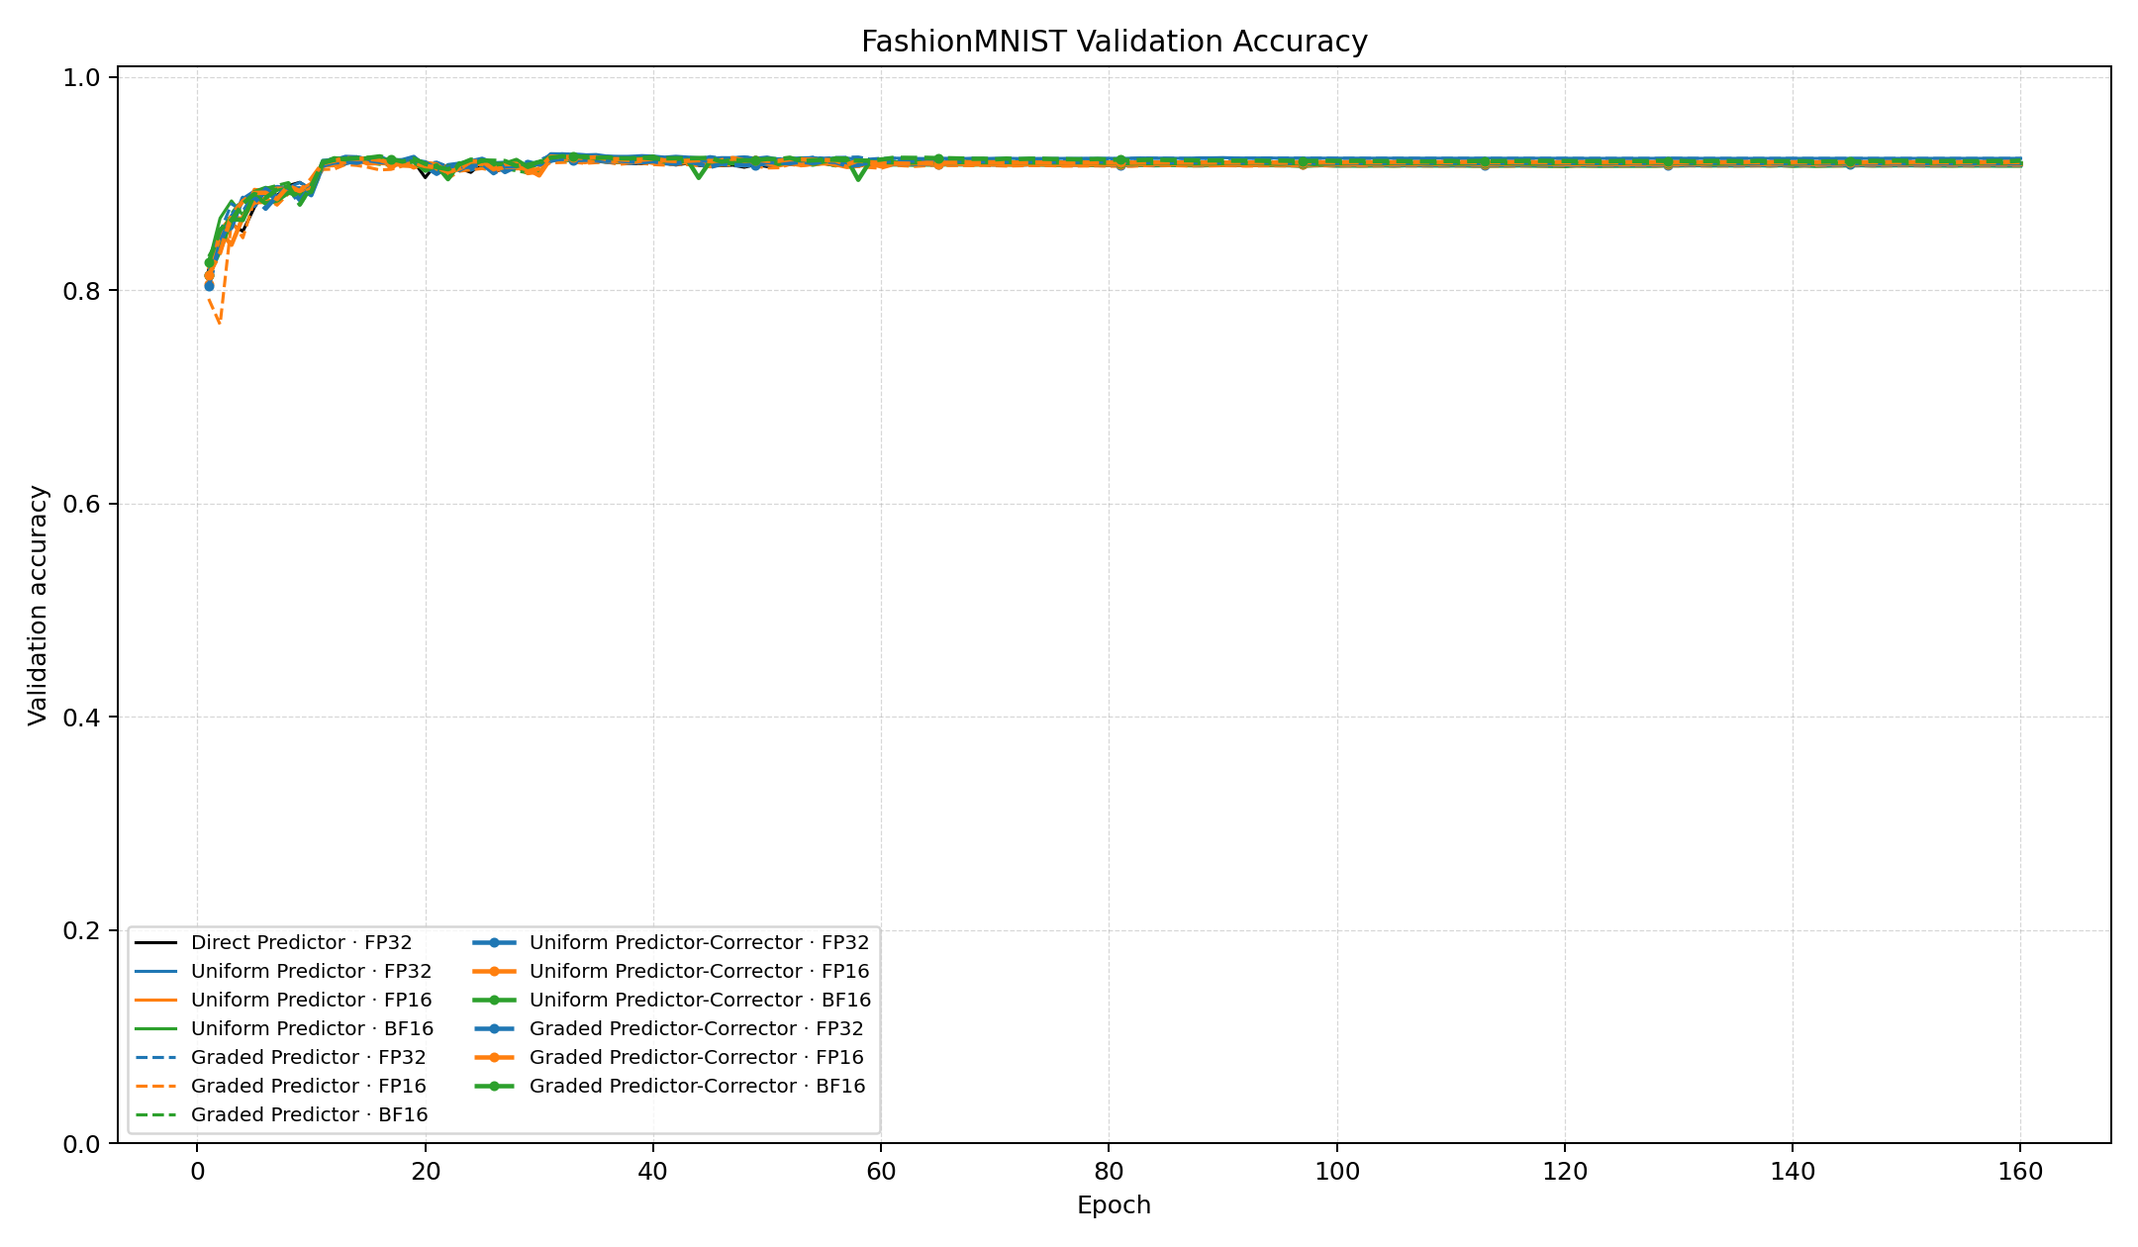
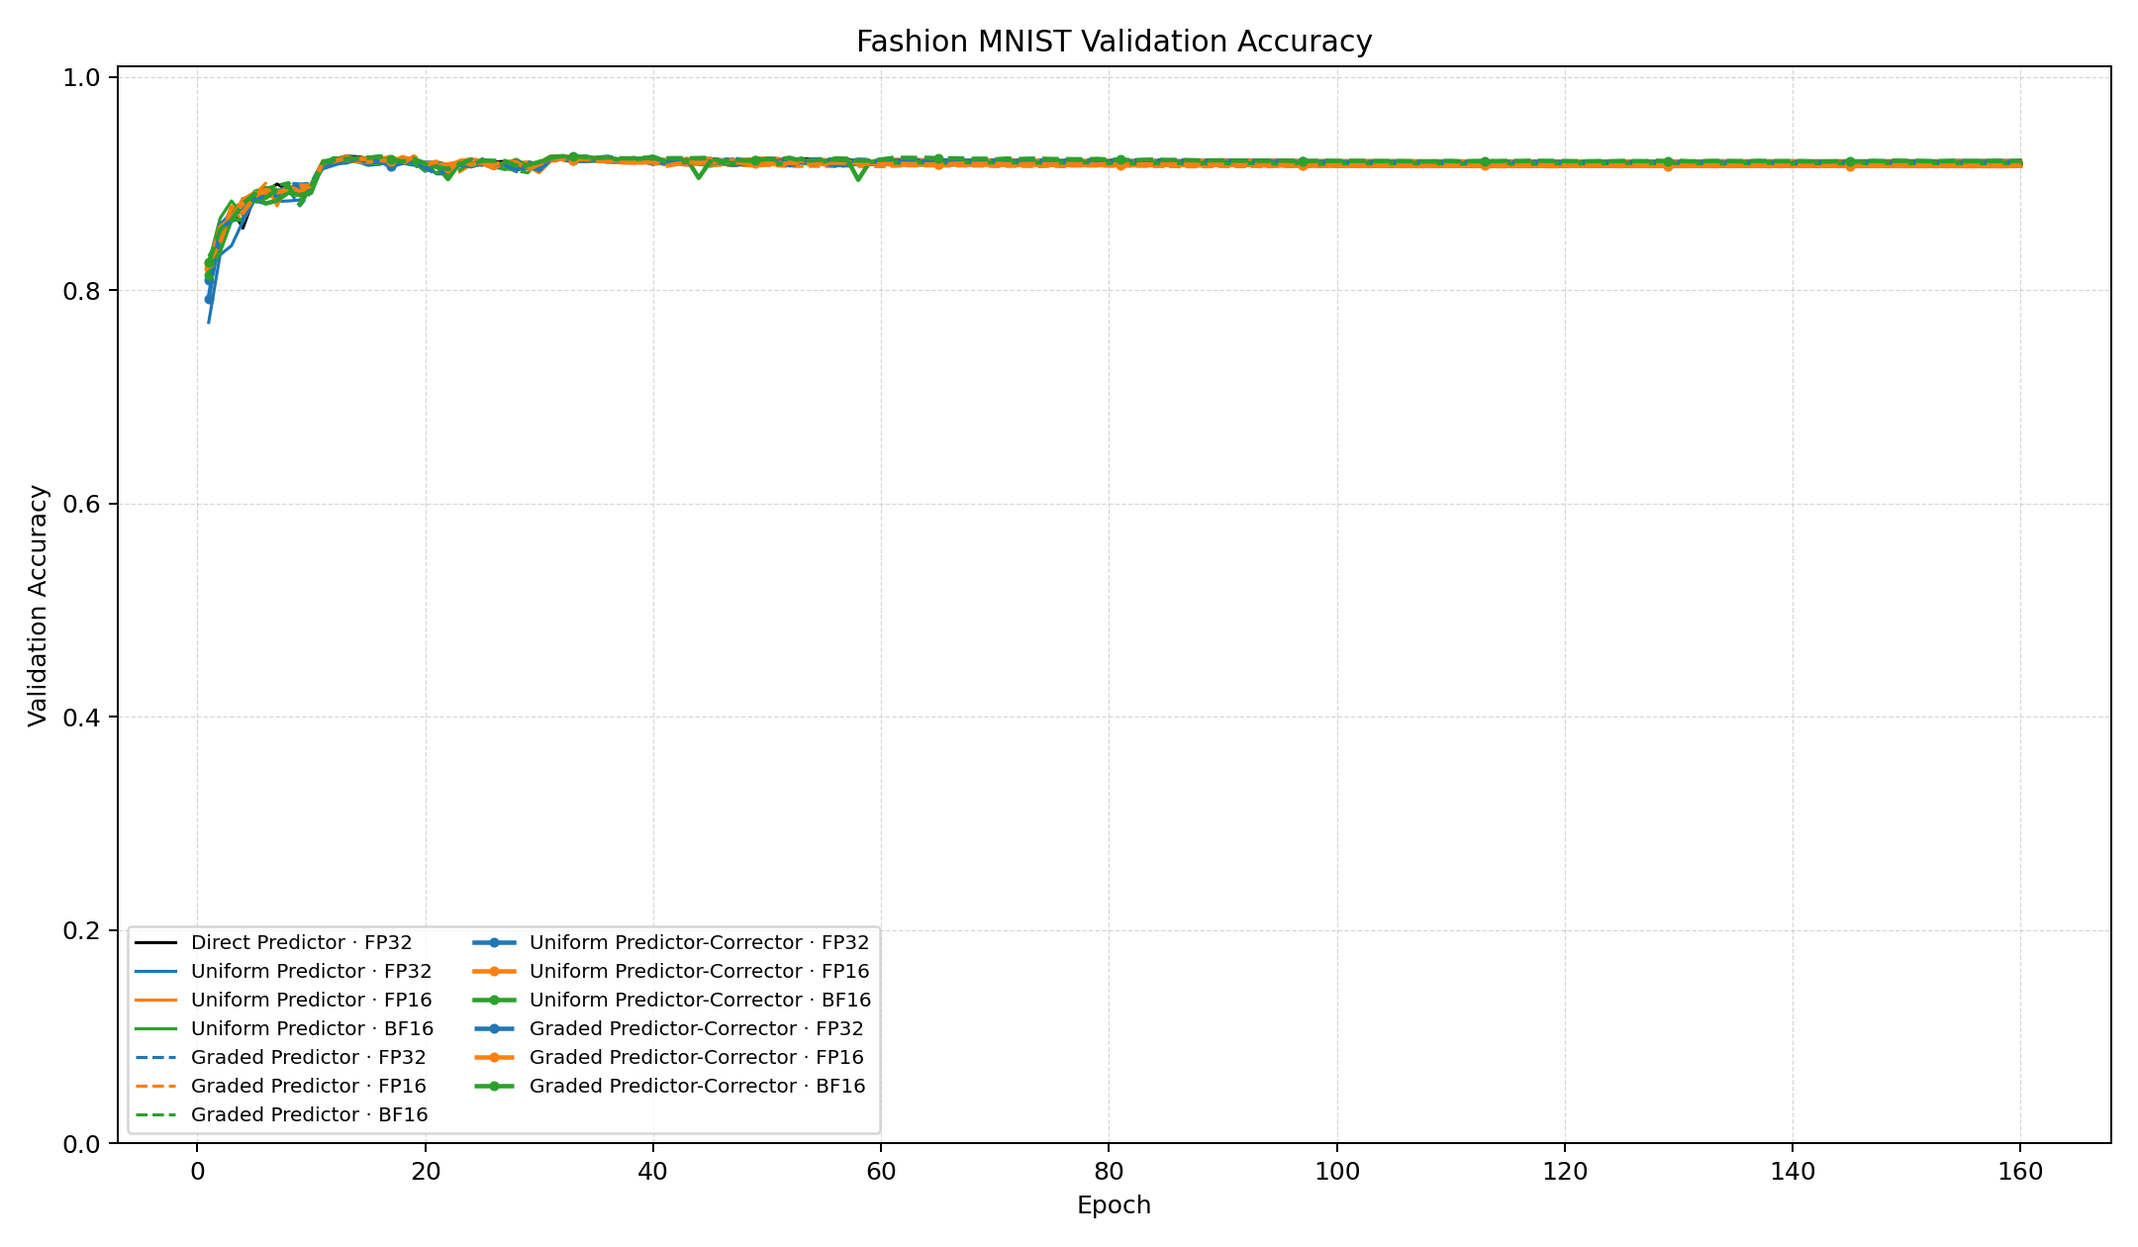
Added summary markdowns for FashionMNIST and STL10 examples.

Changed region(s): [[0.0931, 0.1238, 0.9616, 0.2476], [0.4032, 0.0, 0.6514, 0.0619], [0.0, 0.4952, 0.031, 0.5571]]

diff --git a/examples/FashionMNIST/Evaluate Full Training Logs/fashion_mnist_final_metrics.md b/examples/FashionMNIST/Evaluate Full Training Logs/fashion_mnist_final_metrics.md
@@ -1,66 +1,65 @@
 # Fashion MNIST Final Metrics Summary
 
-## Full Training Metrics 
+## Full Training Metrics
 
 ```text
-configuration                      | backward mode        | mesh    | precision | final_acc | best_acc | train_mem_mb | train_time_s | inf_time_s | inf_mem_mb
------------------------------------+----------------------+---------+-----------+-----------+----------+--------------+--------------+------------+-----------
-Direct Predictor · FP32            | direct AG            | uniform | float32   | 0.9171    | 0.9245   | 221.06       | 1253.06      | 0.66       | 120.24      
-Uniform Predictor · FP32           | adjoint              | uniform | float32   | 0.9238    | 0.9282   | 166.48       | 1621.35      | 0.69       | 120.24      
-Uniform Predictor · FP16           | adjoint-mixed        | uniform | float16   | 0.9190    | 0.9247   | 161.65       | 2861.05      | 0.69       | 120.48      
-Uniform Predictor · BF16           | adjoint-mixed-bfloat | uniform | bfloat16  | 0.9164    | 0.9234   | 159.95       | 2552.80      | 0.94       | 120.48      
-Graded Predictor · FP32            | adjoint              | graded  | float32   | 0.9237    | 0.9282   | 166.48       | 1997.99      | 0.73       | 120.24      
-Graded Predictor · FP16            | adjoint-mixed        | graded  | float16   | 0.9168    | 0.9203   | 161.65       | 3644.80      | 0.79       | 120.48      
-Graded Predictor · BF16            | adjoint-mixed-bfloat | graded  | bfloat16  | 0.9202    | 0.9229   | 159.95       | 1445.72      | 0.63       | 120.48      
-Uniform Predictor-Corrector · FP32 | adjoint              | uniform | float32   | 0.9180    | 0.9251   | 180.27       | 3102.22      | 1.04       | 120.24      
-Uniform Predictor-Corrector · FP16 | adjoint-mixed        | uniform | float16   | 0.9186    | 0.9237   | 168.40       | 5778.13      | 1.07       | 120.48      
-Uniform Predictor-Corrector · BF16 | adjoint-mixed-bfloat | uniform | bfloat16  | 0.9193    | 0.9256   | 167.56       | 3492.20      | 1.11       | 120.48      
-Graded Predictor-Corrector · FP32  | adjoint              | graded  | float32   | 0.9196    | 0.9233   | 180.27       | 3046.23      | 1.03       | 120.24      
-Graded Predictor-Corrector · FP16  | adjoint-mixed        | graded  | float16   | 0.9203    | 0.9256   | 168.40       | 5437.04      | 1.12       | 120.48      
-Graded Predictor-Corrector · BF16  | adjoint-mixed-bfloat | graded  | bfloat16  | 0.9217    | 0.9261   | 167.56       | 3638.01      | 1.08       | 120.48      
+configuration                      | backward mode        | mesh    | precision | status | final_acc | best_acc | train_mem_mb | train_time_s | inf_time_s | inf_mem_mb
+-----------------------------------+----------------------+---------+-----------+--------+-----------+----------+--------------+--------------+------------+-----------
+Direct Predictor · FP32            | direct AG            | uniform | float32   | ok     | 0.9218    | 0.9259   | 221.06       | 1063.47      | 0.52       | 120.24    
+Uniform Predictor · FP32           | adjoint              | uniform | float32   | ok     | 0.9176    | 0.9226   | 166.48       | 1300.98      | 0.59       | 120.24    
+Uniform Predictor · FP16           | adjoint-mixed        | uniform | float16   | ok     | 0.9211    | 0.9262   | 162.22       | 3564.86      | 0.78       | 120.48    
+Uniform Predictor · BF16           | adjoint-mixed-bfloat | uniform | bfloat16  | ok     | 0.9164    | 0.9234   | 159.95       | 2569.69      | 0.80       | 120.48    
+Graded Predictor · FP32            | adjoint              | graded  | float32   | ok     | 0.9209    | 0.9254   | 166.48       | 1976.20      | 0.74       | 120.24    
+Graded Predictor · FP16            | adjoint-mixed        | graded  | float16   | ok     | 0.9160    | 0.9260   | 162.22       | 3674.37      | 0.88       | 120.48    
+Graded Predictor · BF16            | adjoint-mixed-bfloat | graded  | bfloat16  | ok     | 0.9202    | 0.9229   | 159.95       | 1623.00      | 0.75       | 120.48    
+Uniform Predictor-Corrector · FP32 | adjoint              | uniform | float32   | ok     | 0.9184    | 0.9237   | 180.27       | 2489.25      | 0.81       | 120.24    
+Uniform Predictor-Corrector · FP16 | adjoint-mixed        | uniform | float16   | ok     | 0.9167    | 0.9249   | 168.97       | 4176.99      | 0.89       | 120.48    
+Uniform Predictor-Corrector · BF16 | adjoint-mixed-bfloat | uniform | bfloat16  | ok     | 0.9193    | 0.9256   | 167.56       | 4762.59      | 1.42       | 120.48    
+Graded Predictor-Corrector · FP32  | adjoint              | graded  | float32   | ok     | 0.9199    | 0.9253   | 180.27       | 3819.45      | 1.21       | 120.24    
+Graded Predictor-Corrector · FP16  | adjoint-mixed        | graded  | float16   | ok     | 0.9178    | 0.9256   | 168.97       | 7305.76      | 1.50       | 120.48    
+Graded Predictor-Corrector · BF16  | adjoint-mixed-bfloat | graded  | bfloat16  | ok     | 0.9217    | 0.9261   | 167.56       | 3048.05      | 0.96       | 120.48    
 ```
 
-Predictor: 
-- Adjoint MP memory savings compared to direct AG: $27.6\\%$
-    - Note: this scales up to $\\%$ as $T$ increases, see below. 
+Predictor:
+- Adjoint MP memory savings compared to direct AG: $27.6\\%$.
+    - Note: this scales with $T/h$, see below for memory savings of up to $86.6\\%$.
 - Adjoint MP memory savings compared to full precision adjoint: $3.9\\%$
-    - Note: this scales up to $\\%$ as $T$ increases, see below. 
+    - Note: this scales with $T/h$, see below for memory savings of up to $47.5\\%$.
 
-Predictor-Corrector: 
+Predictor-Corrector:
 - Adjoint MP memory savings compared to full precision adjoint: $7.1\\%$
-    - Note: this scales up to $\\%$ as $T$ increases, see below
 
 Experiment Parameters:
 - Network Architecture:
-    - Same as torchfde/Neural FDE paper (same as MNIST example)
-
+    - Same as the torchfde Neural FDE paper (and the MNIST example)
+    - Model parameter count: 208266
 - FDE_Block:
     - Beta: 0.3
     - T: 1.0
     - step_size: 0.1
-    - $f$ in $D^\beta z = f$: Convolution Module
-
+    - $f$ in $D^\beta z = f$: Convolution module
 - Training Arguments:
-    - Epochs: 160 
-    - Batch Size: 128
-    - Initial LR: 0.1, decay at specified boundary epochs 
+    - Epochs: 160
+    - Batch size: 128
+    - Initial LR: 0.1, decayed at the specified boundary epochs
     - Momentum: 0.9
     - Weight decay: 5e-4
     - GPU: NVIDIA H200 (Palmetto)
 
-Parameter count: 208,266
+Parameter count: 208266
 
-Note: 
-- adjoint mode uses adjoint method for gradients but in high precision
-- adjoint-mixed mode uses adjoint method with float16 for mixed precision (and hence the DynamicScaler)
-- adjoint-mixed-bfloat uses adjoint method with bfloat16 for mixed precision (and hence no DynamicScaler)
-- direct mode uses standard backprop with high precision
-    
-Training Plot (every epoch):
-![Training plots for Fashion MNIST full experiment](./fashion_mnist_train_accuracy.png "Fashion MNIST full training curves")
+Note:
+- adjoint mode uses the custom adjoint in float32 throughout
+- adjoint-mixed mode uses float16 adjoint storage and the DynamicScaler
+- adjoint-mixed-bfloat uses bfloat16 adjoint storage without dynamic scaling
+- direct mode uses standard backpropagation in float32
+- graded and uniform specify the shared forward/backward time mesh
 
-Test Accuracy Plot (every epoch):
-![Test accuracy plots for Fashion MNIST full experiment](./fashion_mnist_validation_accuracy.png "Fashion MNIST full test curves")
+Training Plot (every logged epoch):
+![Training plot for Fashion MNIST](./fashion_mnist_train_accuracy.png "Fashion MNIST training curves")
+
+Validation Accuracy Plot (every logged epoch):
+![Validation plot for Fashion MNIST](./fashion_mnist_validation_accuracy.png "Fashion MNIST validation curves")
 
 
 ## Fashion MNIST Final Time, T, Sweep Comparisions
@@ -72,38 +71,46 @@ T \in \{1, 2, 4, 8, 16, 32, 64, 128\}
 and report peak GPU memory for each epoch and time per epoch for training. 
 
 # Memory Results (Peak Memory, MB)
+
+- Solver configuration: Uniform Predictor
+- Loss scaling: direct=false, adjoint=false, adjoint-mixed=dynamic, adjoint-mixed-bfloat=false
+
 ```text
 |---------------|--------|--------|--------|--------|---------|---------|---------|----------|
 |   method \ T  |   1    |   2    |   4    |   8    |   16    |   32    |   64    |   128    |
 |---------------|--------|--------|--------|--------|---------|---------|---------|----------|
 |      dir      | 221.06 | 312.35 | 494.94 | 860.12 | 1590.48 | 3051.29 | 5973.20 | 11818.20 |
-|      adj      | 171.27 | 197.37 | 264.87 | 399.87 | 669.87  | 1209.87 | 2289.87 | 4449.87  |
-|   adj_fl16    | 159.95 | 171.20 | 193.70 | 238.70 | 328.70  | 508.70  | 868.71  | 1588.71  |
-|   adj_bfl16   | 159.95 | 171.20 | 193.70 | 238.70 | 328.70  | 508.70  | 868.71  | 1588.71  |
+|      adj      | 166.48 | 188.98 | 233.98 | 323.98 | 503.98  | 863.98  | 1583.98 | 3023.99  |
+|   adj_fl16    | 162.22 | 173.47 | 195.97 | 240.97 | 330.97  | 510.97  | 870.98  | 1590.98  |
+|   adj_bfl16   | 159.95 | 171.20 | 193.70 | 238.70 | 328.70  | 508.71  | 868.71  | 1588.72  |
 |---------------|--------|--------|--------|--------|---------|---------|---------|----------|
-| dir/adj       | 1.291  | 1.583  | 1.869  | 2.151  | 2.374   | 2.522   | 2.609   | 2.656    |
-| dir/adj_fl16  | 1.382  | 1.824  | 2.555  | 3.603  | 4.839   | 5.998   | 6.876   | 7.439    |
+| dir/adj       | 1.328  | 1.653  | 2.115  | 2.655  | 3.156   | 3.532   | 3.771   | 3.908    |
+| dir/adj_fl16  | 1.363  | 1.801  | 2.526  | 3.569  | 4.806   | 5.972   | 6.858   | 7.428    |
 | dir/adj_bfl16 | 1.382  | 1.824  | 2.555  | 3.603  | 4.839   | 5.998   | 6.876   | 7.439    |
-| adj/adj_fl16  | 1.071  | 1.153  | 1.367  | 1.675  | 2.038   | 2.378   | 2.636   | 2.801    |
-| adj/adj_bfl16 | 1.071  | 1.153  | 1.367  | 1.675  | 2.038   | 2.378   | 2.636   | 2.801    |
+| adj/adj_fl16  | 1.026  | 1.089  | 1.194  | 1.344  | 1.523   | 1.691   | 1.819   | 1.901    |
+| adj/adj_bfl16 | 1.041  | 1.104  | 1.208  | 1.357  | 1.533   | 1.698   | 1.823   | 1.903    |
 |---------------|--------|--------|--------|--------|---------|---------|---------|----------|
 ```
 
 
 # Time Results (s)
+
+- Solver configuration: Uniform Predictor
+- Loss scaling: direct=false, adjoint=false, adjoint-mixed=dynamic, adjoint-mixed-bfloat=false
+
 ```text
 |---------------|--------|--------|--------|--------|---------|---------|---------|----------|
 |   method \ T  |   1    |   2    |   4    |   8    |   16    |   32    |   64    |   128    |
 |---------------|--------|--------|--------|--------|---------|---------|---------|----------|
-|      dir      | 6.44   | 9.20   | 23.97  | 63.99  | 202.36  | 795.04  | 3301.78 | 12404.80 |
-|      adj      | 6.48   | 12.40  | 19.78  | 63.48  | 117.94  | 182.19  | 549.55  | 1334.01  |
-|   adj_fl16    | 9.31   | 23.47  | 33.36  | 61.12  | 173.37  | 469.91  | 1149.10 | 4573.79  |
-|   adj_bfl16   | 10.22  | 21.51  | 43.13  | 64.04  | 134.41  | 428.05  | 1108.14 | 3694.79  |
+|      dir      | 4.45   | 8.38   | 18.84  | 52.50  | 163.19  | 623.63  | 2596.07 | 15021.00 |
+|      adj      | 5.53   | 10.10  | 20.34  | 44.49  | 112.58  | 552.15  | 1736.59 | 3332.12  |
+|   adj_fl16    | 12.27  | 23.31  | 45.89  | 99.58  | 232.61  | 592.99  | 1734.67 | 5111.00  |
+|   adj_bfl16   | 6.29   | 11.52  | 22.62  | 49.48  | 119.74  | 328.53  | 1005.61 | 6025.29  |
 |---------------|--------|--------|--------|--------|---------|---------|---------|----------|
-| dir/adj       | 0.994  | 0.742  | 1.212  | 1.008  | 1.716   | 4.364   | 6.008   | 9.299    |
-| dir/adj_fl16  | 0.692  | 0.392  | 0.719  | 1.047  | 1.167   | 1.692   | 2.873   | 2.712    |
-| dir/adj_bfl16 | 0.630  | 0.428  | 0.556  | 0.999  | 1.505   | 1.857   | 2.980   | 3.357    |
-| adj/adj_fl16  | 0.696  | 0.529  | 0.593  | 1.039  | 0.680   | 0.388   | 0.478   | 0.292    |
-| adj/adj_bfl16 | 0.634  | 0.577  | 0.459  | 0.991  | 0.877   | 0.426   | 0.496   | 0.361    |
+| dir/adj       | 0.805  | 0.829  | 0.926  | 1.180  | 1.449   | 1.129   | 1.495   | 4.508    |
+| dir/adj_fl16  | 0.363  | 0.359  | 0.411  | 0.527  | 0.702   | 1.052   | 1.497   | 2.939    |
+| dir/adj_bfl16 | 0.707  | 0.727  | 0.833  | 1.061  | 1.363   | 1.898   | 2.582   | 2.493    |
+| adj/adj_fl16  | 0.451  | 0.433  | 0.443  | 0.447  | 0.484   | 0.931   | 1.001   | 0.652    |
+| adj/adj_bfl16 | 0.879  | 0.877  | 0.899  | 0.899  | 0.940   | 1.681   | 1.727   | 0.553    |
 |---------------|--------|--------|--------|--------|---------|---------|---------|----------|
 ```

diff --git a/examples/STL10/Evaluate Logs/stl10_final_metrics.md b/examples/STL10/Evaluate Logs/stl10_final_metrics.md
@@ -3,31 +3,40 @@
 ## Full Training Metrics
 
 ```text
-configuration            | backward mode        | mesh    | precision | final_acc | best_acc | train_mem_mb | train_time_s | inf_time_s | inf_mem_mb
--------------------------+----------------------+---------+-----------+-----------+----------+--------------+--------------+------------+-----------
-Direct Predictor · FP32  | direct AG            | uniform | float32   | 0.6890    | 0.6890   | 4299.64      | 4047.21      | 1.72       | 1130.14
-Uniform Predictor · FP32 | adjoint              | uniform | float32   | 0.7050    | 0.7120   | 2296.38      | 4553.96      | 1.50       | 1962.14
-Uniform Predictor · FP16 | adjoint-mixed        | uniform | float16   | 0.6890    | 0.6960   | 1209.97      | 3330.27      | 1.11       | 1034.23
-Uniform Predictor · BF16 | adjoint-mixed-bfloat | uniform | bfloat16  | 0.7010    | 0.7090   | 1207.71      | 3122.13      | 1.47       | 1034.23
+configuration                      | backward mode        | mesh    | precision | status | final_acc | best_acc | train_mem_mb | train_time_s | inf_time_s | inf_mem_mb
+-----------------------------------+----------------------+---------+-----------+--------+-----------+----------+--------------+--------------+------------+-----------
+Direct Predictor · FP32            | direct AG            | uniform | float32   | ok     | 0.7420    | 0.7470   | 8580.14      | 7761.33      | 3.17       | 2262.36   
+Uniform Predictor · FP32           | adjoint              | uniform | float32   | ok     | 0.7430    | 0.7530   | 4613.38      | 8501.27      | 3.00       | 3926.37   
+Uniform Predictor · FP16           | adjoint-mixed        | uniform | float16   | ok     | 0.7290    | 0.7320   | 2595.53      | 10173.68     | 2.22       | 2070.70   
+Uniform Predictor · BF16           | adjoint-mixed-bfloat | uniform | bfloat16  | ok     | 0.7310    | 0.7350   | 2430.95      | 5676.79      | 2.07       | 2070.70   
+Graded Predictor · FP32            | adjoint              | graded  | float32   | ok     | 0.7860    | 0.7920   | 4613.38      | 8877.01      | 3.07       | 3926.37   
+Graded Predictor · FP16            | adjoint-mixed        | graded  | float16   | ok     | 0.7730    | 0.7760   | 2595.53      | 8652.69      | 2.06       | 2070.70   
+Graded Predictor · BF16            | adjoint-mixed-bfloat | graded  | bfloat16  | ok     | 0.7670    | 0.7740   | 2430.95      | 5662.08      | 2.07       | 2070.70   
+Uniform Predictor-Corrector · FP32 | adjoint              | uniform | float32   | ok     | 0.0990    | 0.5130   | 7145.39      | 18963.16     | 6.80       | 5590.37   
+Uniform Predictor-Corrector · FP16 | adjoint-mixed        | uniform | float16   | FAIL   | F         | F        | F            | F            | F          | F         
+Uniform Predictor-Corrector · BF16 | adjoint-mixed-bfloat | uniform | bfloat16  | ok     | 0.0990    | 0.4350   | 3714.96      | 12118.84     | 4.56       | 2902.70   
+Graded Predictor-Corrector · FP32  | adjoint              | graded  | float32   | ok     | 0.6550    | 0.6620   | 7145.39      | 18256.78     | 6.67       | 5590.37   
+Graded Predictor-Corrector · FP16  | adjoint-mixed        | graded  | float16   | ok     | 0.6240    | 0.6240   | 3760.91      | 20616.05     | 4.92       | 2902.70   
+Graded Predictor-Corrector · BF16  | adjoint-mixed-bfloat | graded  | bfloat16  | ok     | 0.6570    | 0.6620   | 3714.96      | 12281.40     | 4.61       | 2902.70   
 ```
 
 Predictor:
-- Adjoint MP memory savings compared to direct AG: $71.9\%$
-- Adjoint MP memory savings compared to full precision adjoint: $47.4\%$
+- Adjoint MP memory savings compared to direct AG: $71.7\%$
+- Adjoint MP memory savings compared to full precision adjoint: $47.3\%$
 
 Predictor-Corrector:
-- Adjoint MP memory savings compared to full precision adjoint: $N/A$
+- Adjoint MP memory savings compared to full precision adjoint: $48.0\%$
 
 Experiment Parameters:
 - Network Architecture:
     - STL10 convolutional Neural FDE classifier
     - Width: 128
-    - Model parameter count: 3,144,970
+    - Model parameter count: 12,565,002
 - FDE_Block:
     - Beta: 0.6
     - T: 1.0
     - step_size: 0.1
-    - $f$ in $D^\beta z = f$: time-dependent dynamics with piecewise-constant weights
+    - $f$ in $D^\beta z = f$: Convolution module
 - Training Arguments:
     - Epochs: 160
     - Batch size: 16
@@ -36,15 +45,17 @@ Experiment Parameters:
     - Weight decay: 5e-4
     - GPU: NVIDIA H200 (Palmetto)
 
-Parameter count: 3,144,970
+Parameter count: 12,565,002
 
 Note:
-- These historical metrics contain only the uniform predictor configurations; the updated launcher generates the complete 13-run table.
 - adjoint mode uses the custom adjoint in float32 throughout
 - adjoint-mixed mode uses float16 adjoint storage and the DynamicScaler
 - adjoint-mixed-bfloat uses bfloat16 adjoint storage without dynamic scaling
 - direct mode uses standard backpropagation in float32
 - graded and uniform specify the shared forward/backward time mesh
+
+Failed Configurations:
+- Uniform Predictor-Corrector · FP16: training log has no Final metrics line
 
 Training Plot (every logged epoch):
 ![Training plot for STL10](./stl10_train_acc.png "STL10 training curves")
